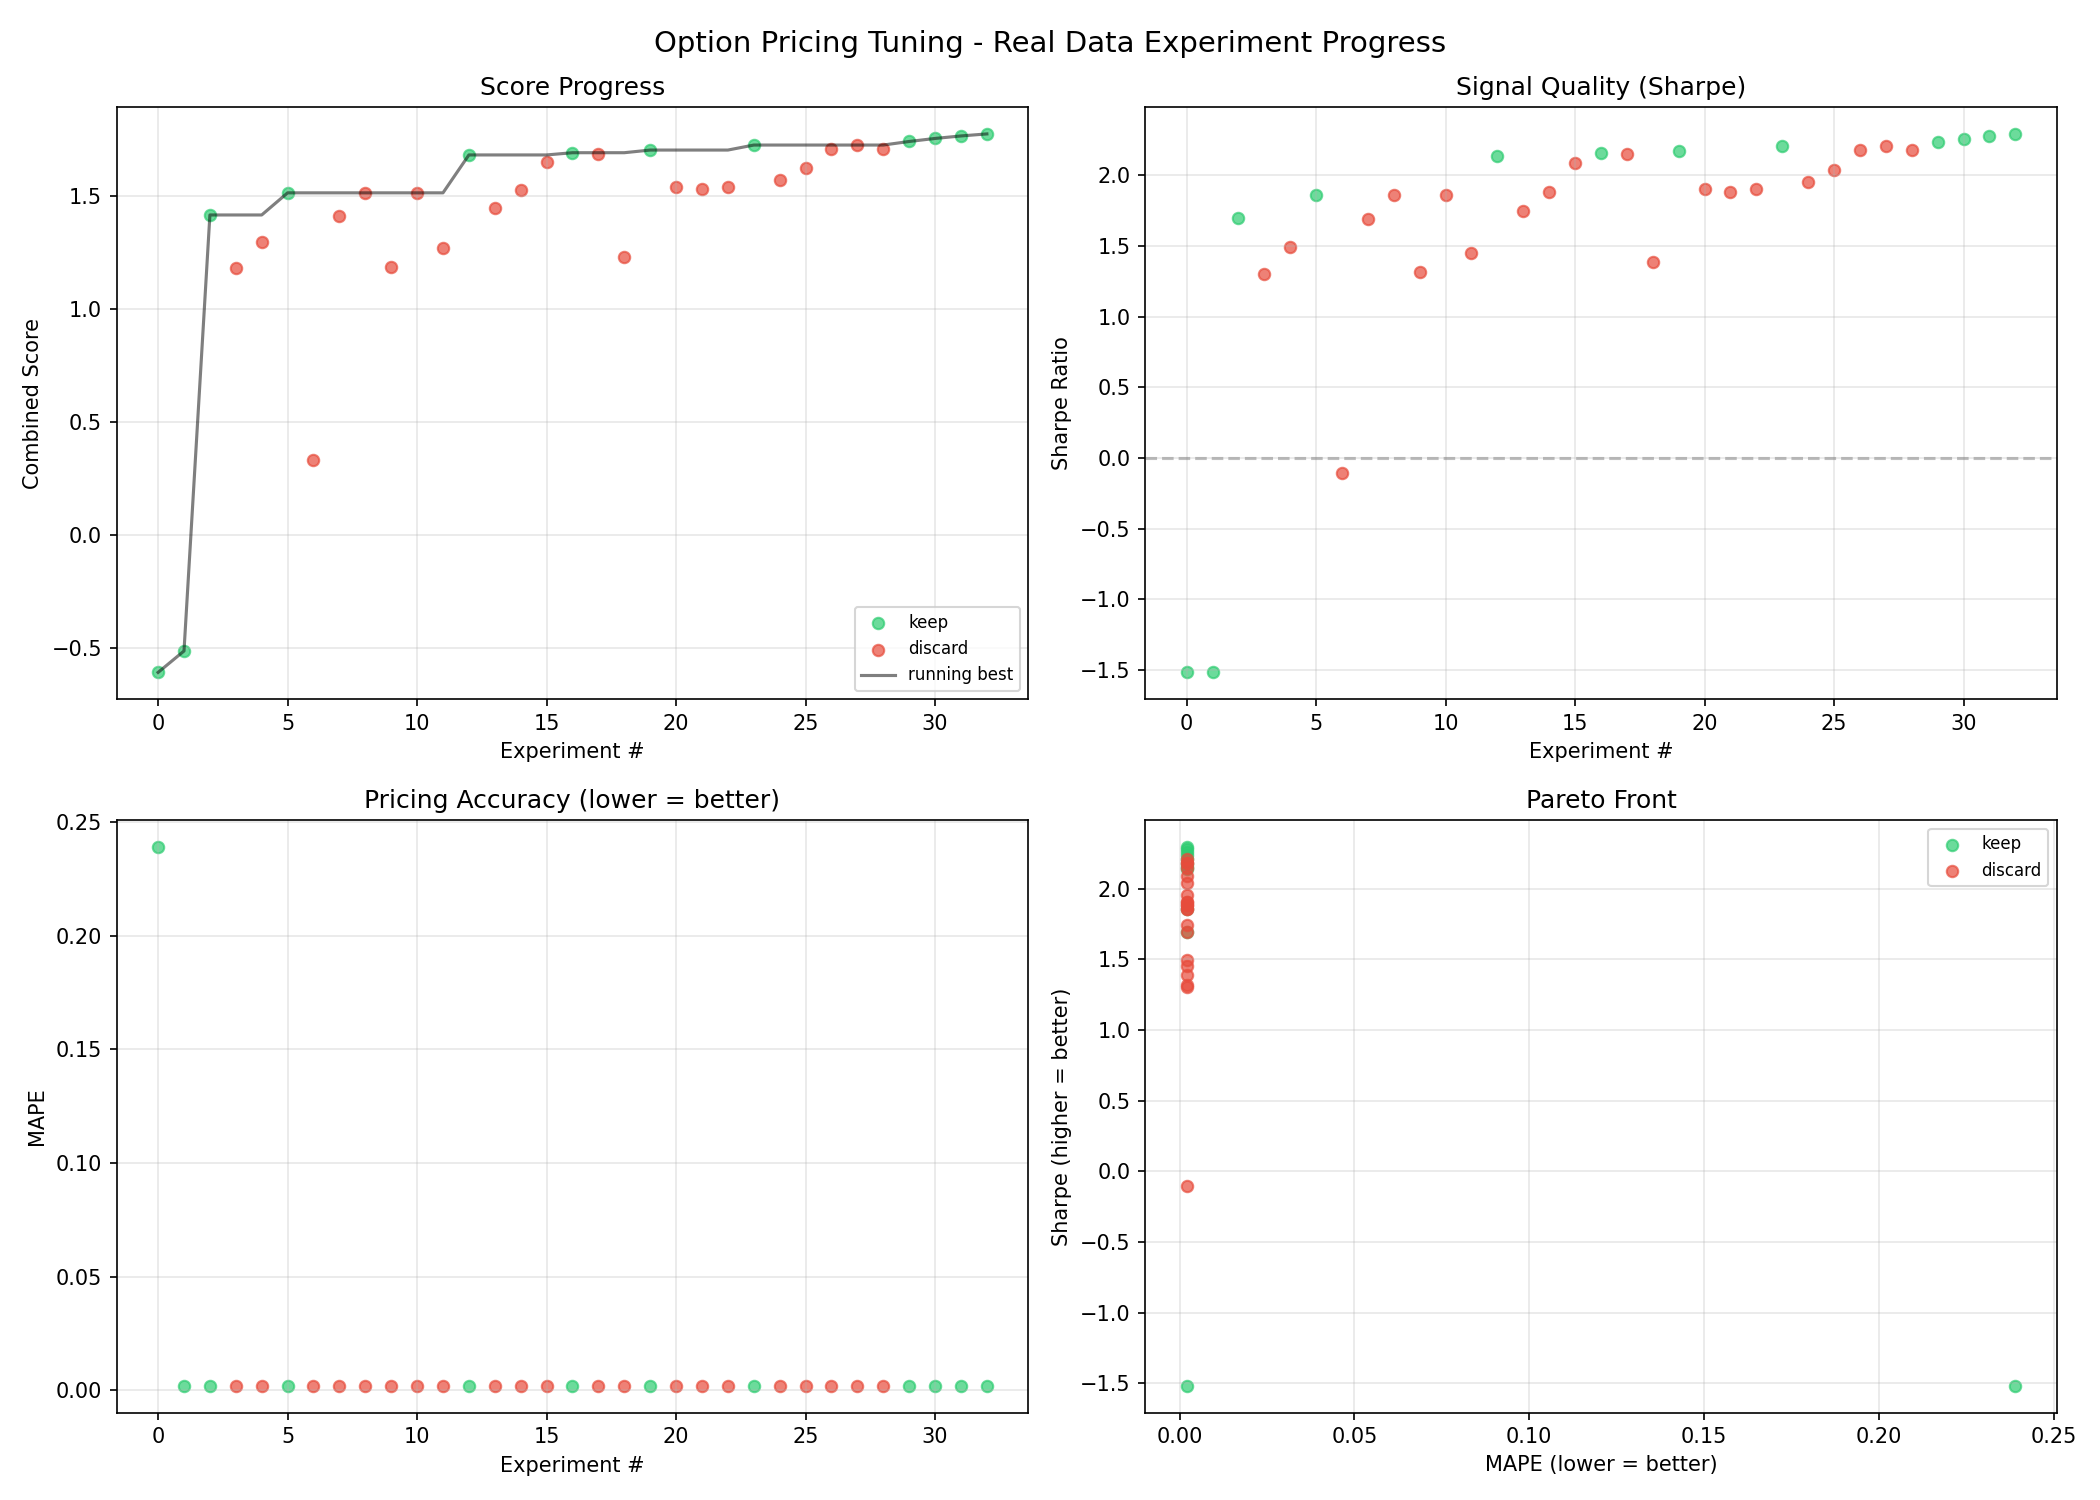
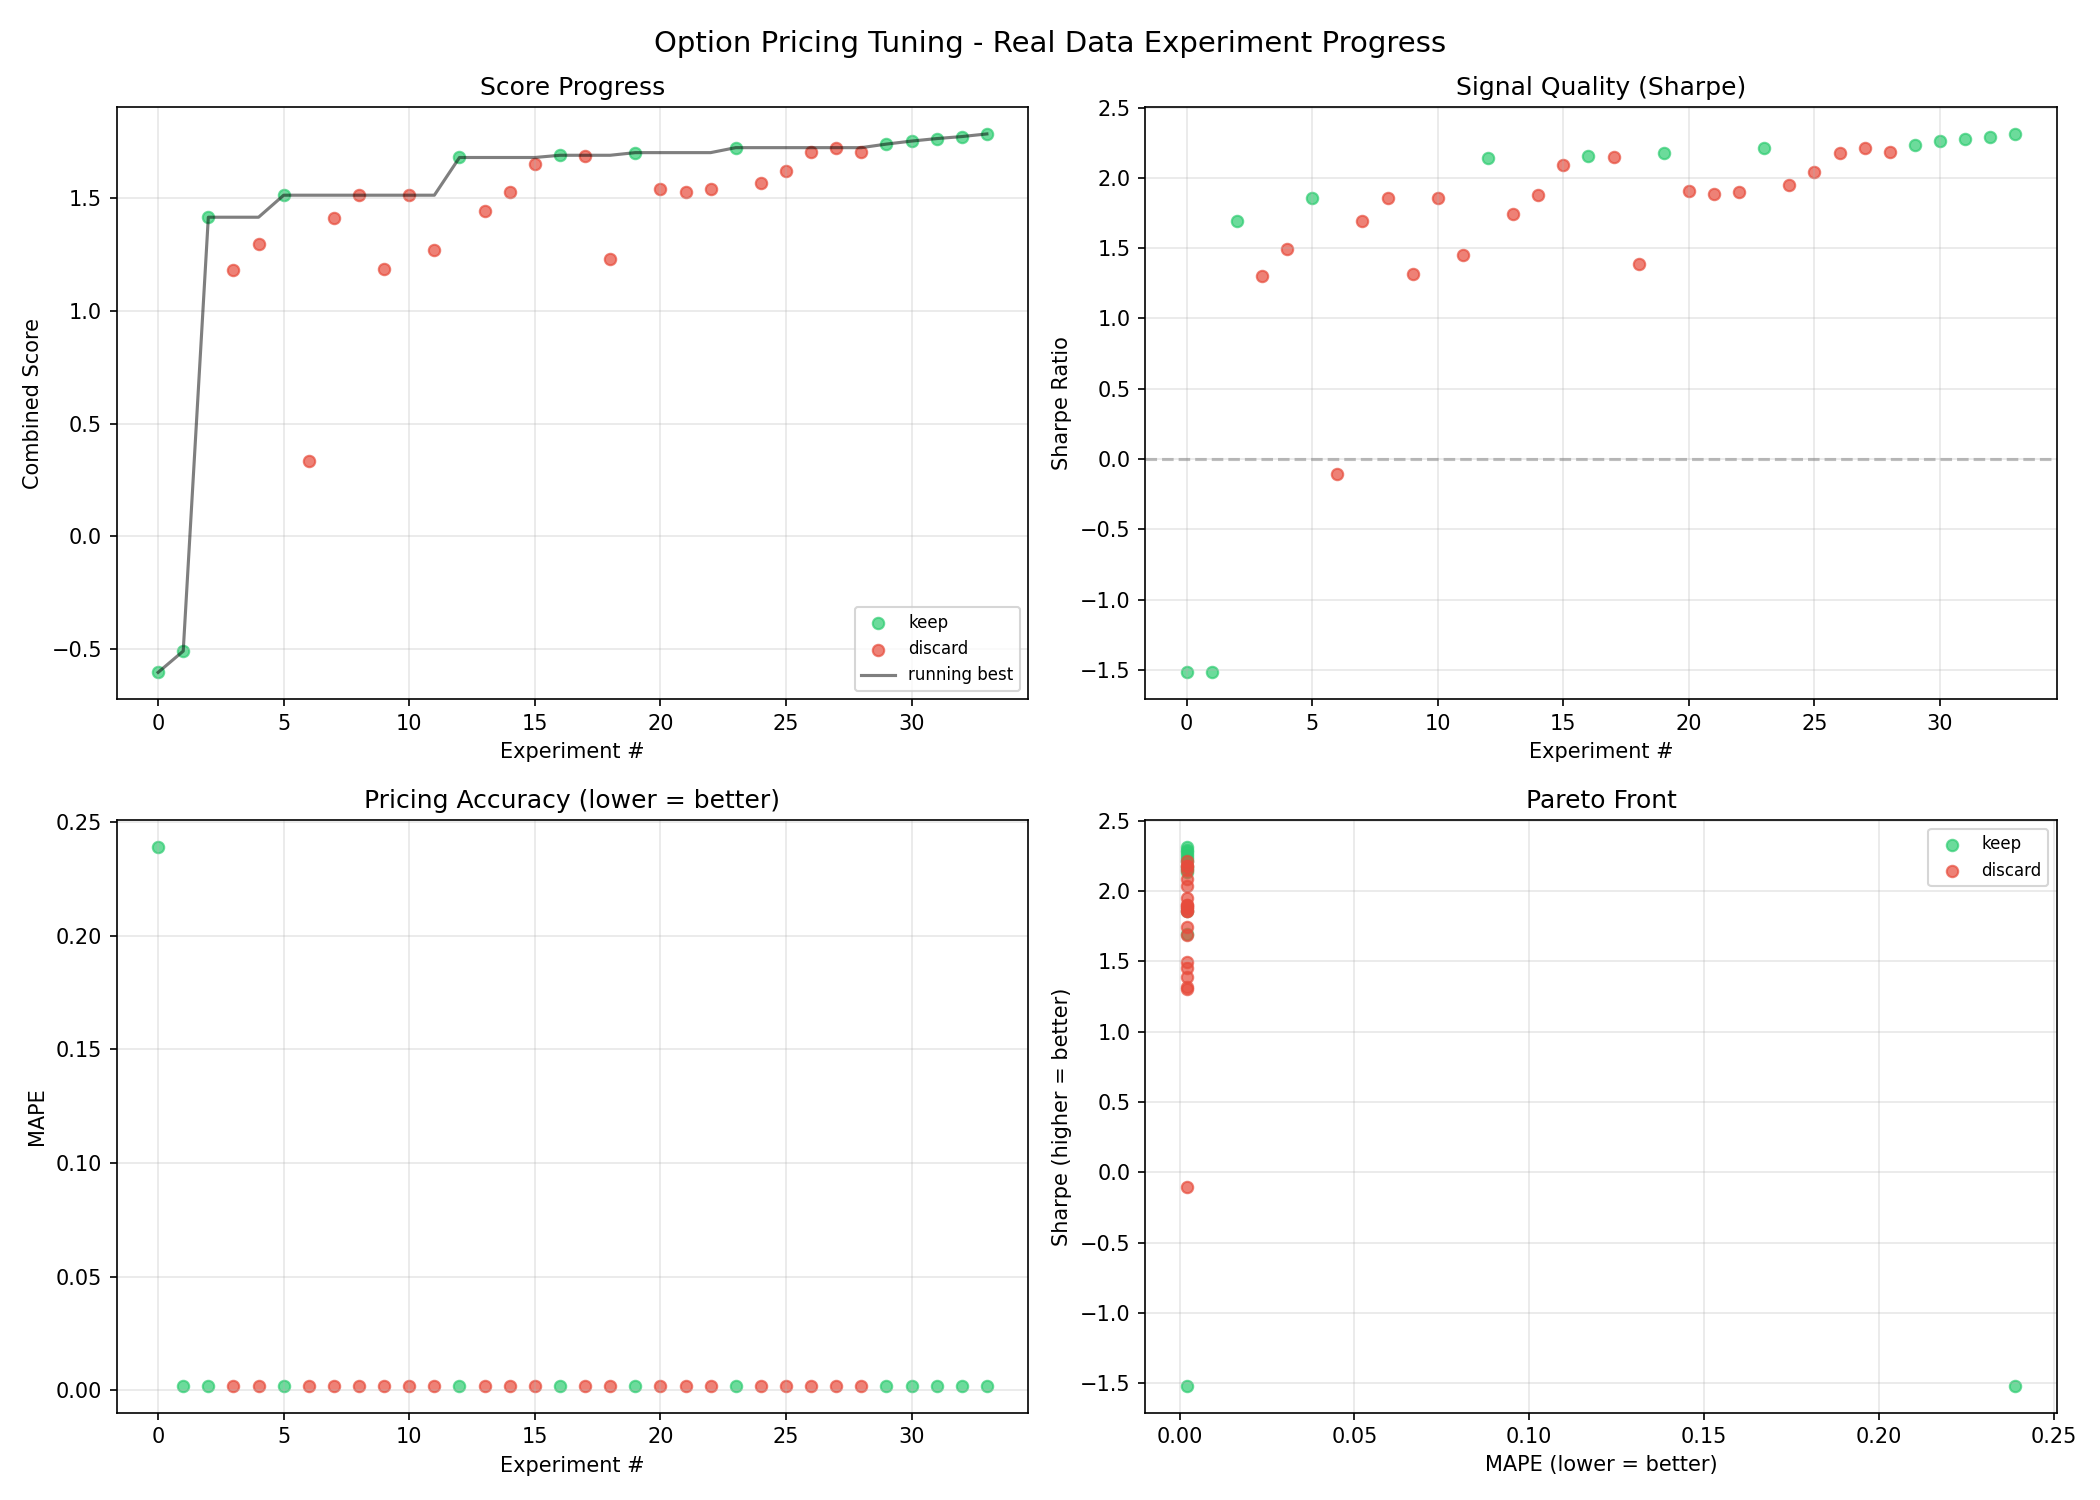
Update results after exp 33

diff --git a/README.md b/README.md
@@ -9,12 +9,12 @@ signals using **real stock market data** from Yahoo Finance.
 
 | Metric | Value |
 |---|---|
-| Combined Score | 1.7751 |
-| Sharpe Ratio | 2.2932 |
+| Combined Score | 1.7869 |
+| Sharpe Ratio | 2.3129 |
 | MAPE | 0.002026 |
 | Win Rate | 84.2% |
 | Trades | 19 |
-| Experiments | 33 (12 kept) |
+| Experiments | 34 (13 kept) |
 
 ## How It Works
 
